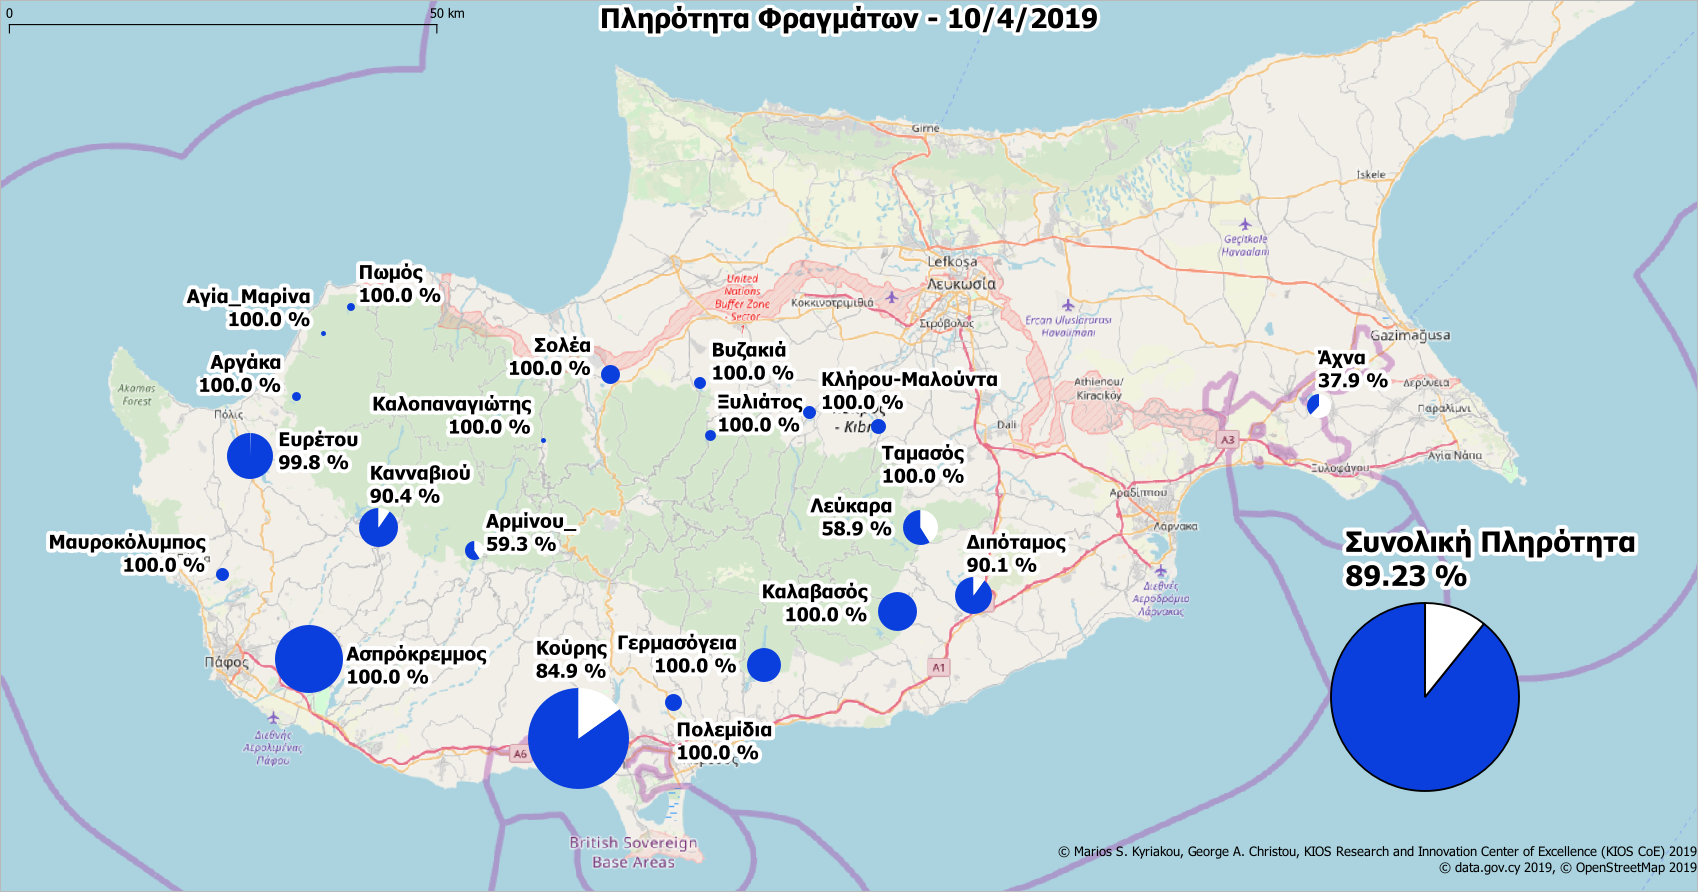
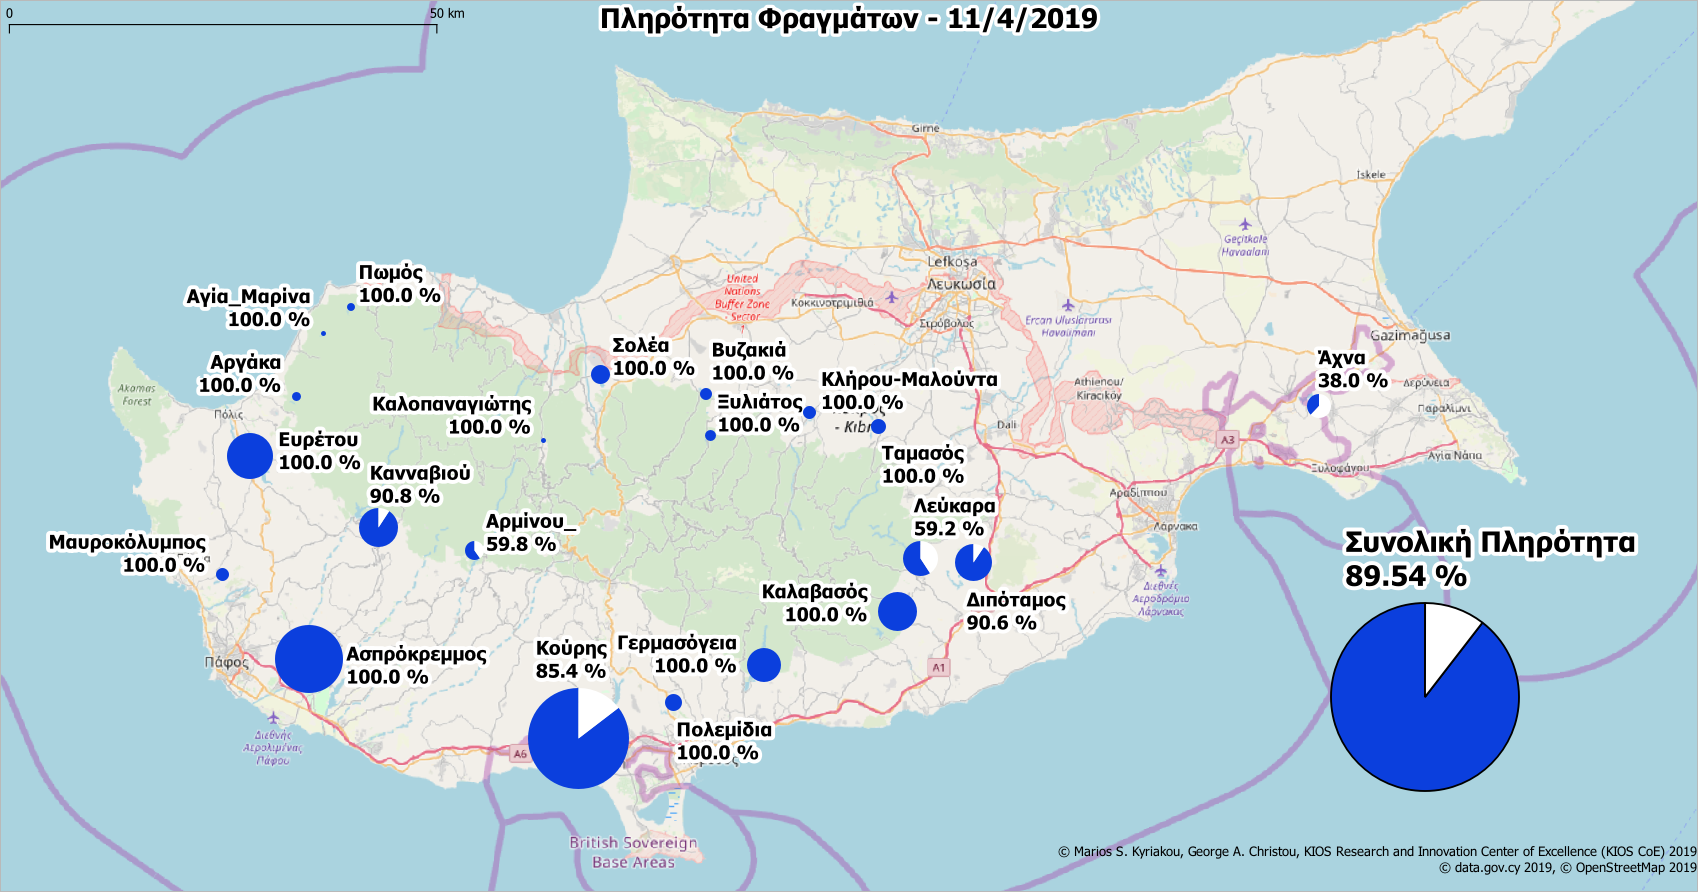
update

diff --git a/dams.html b/dams.html
@@ -11,7 +11,7 @@
      1px  1px 7px WHITE;
 }
 }
-</style><p><b>Ημερομηνία ανανέωσης δεδομένων: 11/4/2019<p><font color="#0000FF">Η συνολική πληρότητα στα φράγματα είναι 89.23%</font>.<p>Υπάρχουν συνολικά <font color="#0000FF">14</font> φράγματα με πληρότητα <font color="#0000FF">100%</font>.<p>Υπάρχουν <font color="#0000FF">20</font> φράγματα με πληρότητα πάνω από <font color="#0000FF">50%</font>.</b><p><b>Υπάρχουν δεδομένα για 21 φράγματα. Συνολικά υπάρχουν 108 φράγματα. <b><p><p><p>* Ε.Κ.Μ. - Εκατομμύρια Kυβικά  Mέτρα.<table width="444">
+</style><p><b>Ημερομηνία ανανέωσης δεδομένων: 11/4/2019<p><font color="#0000FF">Η συνολική πληρότητα στα φράγματα είναι 89.54%</font>.<p>Υπάρχουν συνολικά <font color="#0000FF">15</font> φράγματα με πληρότητα <font color="#0000FF">100%</font>.<p>Υπάρχουν <font color="#0000FF">20</font> φράγματα με πληρότητα πάνω από <font color="#0000FF">50%</font>.</b><p><b>Υπάρχουν δεδομένα για 21 φράγματα. Συνολικά υπάρχουν 108 φράγματα. <b><p><p><p>* Ε.Κ.Μ. - Εκατομμύρια Kυβικά  Mέτρα.<table width="444">
 <tbody>
 <tr>
 <th width="2"><b></b></th>
@@ -19,7 +19,7 @@
 <th width="60"><b>Χωρητικότητα (Ε.Κ.Μ.)</b></th>
 <th width="60"><b>Σημερινή (Ε.Κ.Μ.)</b></th>
 <th width="60"><b> Σημερινή Πληρότητα (%)</b></th>
-</tr><tr><td bgcolor=#48AC4E class=border-white>1</td><td bgcolor=#48AC4E class=border-white>Κούρης</td><td bgcolor=#48AC4E class=border-white>115.0</td><td bgcolor=#48AC4E class=border-white>97.585</td><td bgcolor=#48AC4E class=border-white>84.9</td></tr><tr><tr><td bgcolor=#1A9641 class=border-white>2</td><td bgcolor=#1A9641 class=border-white>Ασπρόκρεμμος</td><td bgcolor=#1A9641 class=border-white>52.375</td><td bgcolor=#1A9641 class=border-white>52.375</td><td bgcolor=#1A9641 class=border-white>100.0</td></tr><tr><tr><td bgcolor=#1A9641 class=border-white>3</td><td bgcolor=#1A9641 class=border-white>Ευρέτου</td><td bgcolor=#1A9641 class=border-white>24.0</td><td bgcolor=#1A9641 class=border-white>23.953</td><td bgcolor=#1A9641 class=border-white>99.8</td></tr><tr><tr><td bgcolor=#1A9641 class=border-white>4</td><td bgcolor=#1A9641 class=border-white>Κανναβιού</td><td bgcolor=#1A9641 class=border-white>17.168</td><td bgcolor=#1A9641 class=border-white>15.512</td><td bgcolor=#1A9641 class=border-white>90.4</td></tr><tr><tr><td bgcolor=#1A9641 class=border-white>5</td><td bgcolor=#1A9641 class=border-white>Καλαβασός</td><td bgcolor=#1A9641 class=border-white>17.1</td><td bgcolor=#1A9641 class=border-white>17.1</td><td bgcolor=#1A9641 class=border-white>100.0</td></tr><tr><tr><td bgcolor=#1A9641 class=border-white>6</td><td bgcolor=#1A9641 class=border-white>Διπόταμος</td><td bgcolor=#1A9641 class=border-white>15.5</td><td bgcolor=#1A9641 class=border-white>13.97</td><td bgcolor=#1A9641 class=border-white>90.1</td></tr><tr><tr><td bgcolor=#D2EC95 class=border-white>7</td><td bgcolor=#D2EC95 class=border-white>Λεύκαρα</td><td bgcolor=#D2EC95 class=border-white>13.85</td><td bgcolor=#D2EC95 class=border-white>8.163</td><td bgcolor=#D2EC95 class=border-white>58.9</td></tr><tr><tr><td bgcolor=#1A9641 class=border-white>8</td><td bgcolor=#1A9641 class=border-white>Γερμασόγεια</td><td bgcolor=#1A9641 class=border-white>13.5</td><td bgcolor=#1A9641 class=border-white>13.5</td><td bgcolor=#1A9641 class=border-white>100.0</td></tr><tr><tr><td bgcolor=#FED690 class=border-white>9</td><td bgcolor=#FED690 class=border-white>Άχνα</td><td bgcolor=#FED690 class=border-white>6.8</td><td bgcolor=#FED690 class=border-white>2.578</td><td bgcolor=#FED690 class=border-white>37.9</td></tr><tr><tr><td bgcolor=#1A9641 class=border-white>10</td><td bgcolor=#1A9641 class=border-white>Σολέα</td><td bgcolor=#1A9641 class=border-white>4.454</td><td bgcolor=#1A9641 class=border-white>4.454</td><td bgcolor=#1A9641 class=border-white>100.0</td></tr><tr><tr><td bgcolor=#D2EC95 class=border-white>11</td><td bgcolor=#D2EC95 class=border-white>Αρμίνου_</td><td bgcolor=#D2EC95 class=border-white>4.3</td><td bgcolor=#D2EC95 class=border-white>2.548</td><td bgcolor=#D2EC95 class=border-white>59.3</td></tr><tr><tr><td bgcolor=#1A9641 class=border-white>12</td><td bgcolor=#1A9641 class=border-white>Πολεμίδια</td><td bgcolor=#1A9641 class=border-white>3.4</td><td bgcolor=#1A9641 class=border-white>3.4</td><td bgcolor=#1A9641 class=border-white>100.0</td></tr><tr><tr><td bgcolor=#1A9641 class=border-white>13</td><td bgcolor=#1A9641 class=border-white>Ταμασός</td><td bgcolor=#1A9641 class=border-white>2.8</td><td bgcolor=#1A9641 class=border-white>2.8</td><td bgcolor=#1A9641 class=border-white>100.0</td></tr><tr><tr><td bgcolor=#1A9641 class=border-white>14</td><td bgcolor=#1A9641 class=border-white>Μαυροκόλυμπος</td><td bgcolor=#1A9641 class=border-white>2.18</td><td bgcolor=#1A9641 class=border-white>2.18</td><td bgcolor=#1A9641 class=border-white>100.0</td></tr><tr><tr><td bgcolor=#1A9641 class=border-white>15</td><td bgcolor=#1A9641 class=border-white>Κλήρου-Μαλούντα</td><td bgcolor=#1A9641 class=border-white>2.0</td><td bgcolor=#1A9641 class=border-white>2.0</td><td bgcolor=#1A9641 class=border-white>100.0</td></tr><tr><tr><td bgcolor=#1A9641 class=border-white>16</td><td bgcolor=#1A9641 class=border-white>Βυζακιά</td><td bgcolor=#1A9641 class=border-white>1.69</td><td bgcolor=#1A9641 class=border-white>1.69</td><td bgcolor=#1A9641 class=border-white>100.0</td></tr><tr><tr><td bgcolor=#1A9641 class=border-white>17</td><td bgcolor=#1A9641 class=border-white>Ξυλιάτος</td><td bgcolor=#1A9641 class=border-white>1.43</td><td bgcolor=#1A9641 class=border-white>1.43</td><td bgcolor=#1A9641 class=border-white>100.0</td></tr><tr><tr><td bgcolor=#1A9641 class=border-white>18</td><td bgcolor=#1A9641 class=border-white>Αργάκα</td><td bgcolor=#1A9641 class=border-white>0.99</td><td bgcolor=#1A9641 class=border-white>0.99</td><td bgcolor=#1A9641 class=border-white>100.0</td></tr><tr><tr><td bgcolor=#1A9641 class=border-white>19</td><td bgcolor=#1A9641 class=border-white>Πωμός</td><td bgcolor=#1A9641 class=border-white>0.86</td><td bgcolor=#1A9641 class=border-white>0.86</td><td bgcolor=#1A9641 class=border-white>100.0</td></tr><tr><tr><td bgcolor=#1A9641 class=border-white>20</td><td bgcolor=#1A9641 class=border-white>Καλοπαναγιώτης</td><td bgcolor=#1A9641 class=border-white>0.363</td><td bgcolor=#1A9641 class=border-white>0.363</td><td bgcolor=#1A9641 class=border-white>100.0</td></tr><tr><tr><td bgcolor=#1A9641 class=border-white>21</td><td bgcolor=#1A9641 class=border-white>Αγία_Μαρίνα</td><td bgcolor=#1A9641 class=border-white>0.298</td><td bgcolor=#1A9641 class=border-white>0.298</td><td bgcolor=#1A9641 class=border-white>100.0</td></tr><tr>
+</tr><tr><td bgcolor=#48AC4E class=border-white>1</td><td bgcolor=#48AC4E class=border-white>Κούρης</td><td bgcolor=#48AC4E class=border-white>115.0</td><td bgcolor=#48AC4E class=border-white>98.245</td><td bgcolor=#48AC4E class=border-white>85.4</td></tr><tr><tr><td bgcolor=#1A9641 class=border-white>2</td><td bgcolor=#1A9641 class=border-white>Ασπρόκρεμμος</td><td bgcolor=#1A9641 class=border-white>52.375</td><td bgcolor=#1A9641 class=border-white>52.375</td><td bgcolor=#1A9641 class=border-white>100.0</td></tr><tr><tr><td bgcolor=#1A9641 class=border-white>3</td><td bgcolor=#1A9641 class=border-white>Ευρέτου</td><td bgcolor=#1A9641 class=border-white>24.0</td><td bgcolor=#1A9641 class=border-white>24.0</td><td bgcolor=#1A9641 class=border-white>100.0</td></tr><tr><tr><td bgcolor=#1A9641 class=border-white>4</td><td bgcolor=#1A9641 class=border-white>Κανναβιού</td><td bgcolor=#1A9641 class=border-white>17.168</td><td bgcolor=#1A9641 class=border-white>15.59</td><td bgcolor=#1A9641 class=border-white>90.8</td></tr><tr><tr><td bgcolor=#1A9641 class=border-white>5</td><td bgcolor=#1A9641 class=border-white>Καλαβασός</td><td bgcolor=#1A9641 class=border-white>17.1</td><td bgcolor=#1A9641 class=border-white>17.1</td><td bgcolor=#1A9641 class=border-white>100.0</td></tr><tr><tr><td bgcolor=#1A9641 class=border-white>6</td><td bgcolor=#1A9641 class=border-white>Διπόταμος</td><td bgcolor=#1A9641 class=border-white>15.5</td><td bgcolor=#1A9641 class=border-white>14.045</td><td bgcolor=#1A9641 class=border-white>90.6</td></tr><tr><tr><td bgcolor=#D2EC95 class=border-white>7</td><td bgcolor=#D2EC95 class=border-white>Λεύκαρα</td><td bgcolor=#D2EC95 class=border-white>13.85</td><td bgcolor=#D2EC95 class=border-white>8.195</td><td bgcolor=#D2EC95 class=border-white>59.2</td></tr><tr><tr><td bgcolor=#1A9641 class=border-white>8</td><td bgcolor=#1A9641 class=border-white>Γερμασόγεια</td><td bgcolor=#1A9641 class=border-white>13.5</td><td bgcolor=#1A9641 class=border-white>13.5</td><td bgcolor=#1A9641 class=border-white>100.0</td></tr><tr><tr><td bgcolor=#FED690 class=border-white>9</td><td bgcolor=#FED690 class=border-white>Άχνα</td><td bgcolor=#FED690 class=border-white>6.8</td><td bgcolor=#FED690 class=border-white>2.584</td><td bgcolor=#FED690 class=border-white>38.0</td></tr><tr><tr><td bgcolor=#1A9641 class=border-white>10</td><td bgcolor=#1A9641 class=border-white>Σολέα</td><td bgcolor=#1A9641 class=border-white>4.454</td><td bgcolor=#1A9641 class=border-white>4.454</td><td bgcolor=#1A9641 class=border-white>100.0</td></tr><tr><tr><td bgcolor=#D2EC95 class=border-white>11</td><td bgcolor=#D2EC95 class=border-white>Αρμίνου_</td><td bgcolor=#D2EC95 class=border-white>4.3</td><td bgcolor=#D2EC95 class=border-white>2.573</td><td bgcolor=#D2EC95 class=border-white>59.8</td></tr><tr><tr><td bgcolor=#1A9641 class=border-white>12</td><td bgcolor=#1A9641 class=border-white>Πολεμίδια</td><td bgcolor=#1A9641 class=border-white>3.4</td><td bgcolor=#1A9641 class=border-white>3.4</td><td bgcolor=#1A9641 class=border-white>100.0</td></tr><tr><tr><td bgcolor=#1A9641 class=border-white>13</td><td bgcolor=#1A9641 class=border-white>Ταμασός</td><td bgcolor=#1A9641 class=border-white>2.8</td><td bgcolor=#1A9641 class=border-white>2.8</td><td bgcolor=#1A9641 class=border-white>100.0</td></tr><tr><tr><td bgcolor=#1A9641 class=border-white>14</td><td bgcolor=#1A9641 class=border-white>Μαυροκόλυμπος</td><td bgcolor=#1A9641 class=border-white>2.18</td><td bgcolor=#1A9641 class=border-white>2.18</td><td bgcolor=#1A9641 class=border-white>100.0</td></tr><tr><tr><td bgcolor=#1A9641 class=border-white>15</td><td bgcolor=#1A9641 class=border-white>Κλήρου-Μαλούντα</td><td bgcolor=#1A9641 class=border-white>2.0</td><td bgcolor=#1A9641 class=border-white>2.0</td><td bgcolor=#1A9641 class=border-white>100.0</td></tr><tr><tr><td bgcolor=#1A9641 class=border-white>16</td><td bgcolor=#1A9641 class=border-white>Βυζακιά</td><td bgcolor=#1A9641 class=border-white>1.69</td><td bgcolor=#1A9641 class=border-white>1.69</td><td bgcolor=#1A9641 class=border-white>100.0</td></tr><tr><tr><td bgcolor=#1A9641 class=border-white>17</td><td bgcolor=#1A9641 class=border-white>Ξυλιάτος</td><td bgcolor=#1A9641 class=border-white>1.43</td><td bgcolor=#1A9641 class=border-white>1.43</td><td bgcolor=#1A9641 class=border-white>100.0</td></tr><tr><tr><td bgcolor=#1A9641 class=border-white>18</td><td bgcolor=#1A9641 class=border-white>Αργάκα</td><td bgcolor=#1A9641 class=border-white>0.99</td><td bgcolor=#1A9641 class=border-white>0.99</td><td bgcolor=#1A9641 class=border-white>100.0</td></tr><tr><tr><td bgcolor=#1A9641 class=border-white>19</td><td bgcolor=#1A9641 class=border-white>Πωμός</td><td bgcolor=#1A9641 class=border-white>0.86</td><td bgcolor=#1A9641 class=border-white>0.86</td><td bgcolor=#1A9641 class=border-white>100.0</td></tr><tr><tr><td bgcolor=#1A9641 class=border-white>20</td><td bgcolor=#1A9641 class=border-white>Καλοπαναγιώτης</td><td bgcolor=#1A9641 class=border-white>0.363</td><td bgcolor=#1A9641 class=border-white>0.363</td><td bgcolor=#1A9641 class=border-white>100.0</td></tr><tr><tr><td bgcolor=#1A9641 class=border-white>21</td><td bgcolor=#1A9641 class=border-white>Αγία_Μαρίνα</td><td bgcolor=#1A9641 class=border-white>0.298</td><td bgcolor=#1A9641 class=border-white>0.298</td><td bgcolor=#1A9641 class=border-white>100.0</td></tr><tr>
 </tr>
 <tr>
 <td></td>
